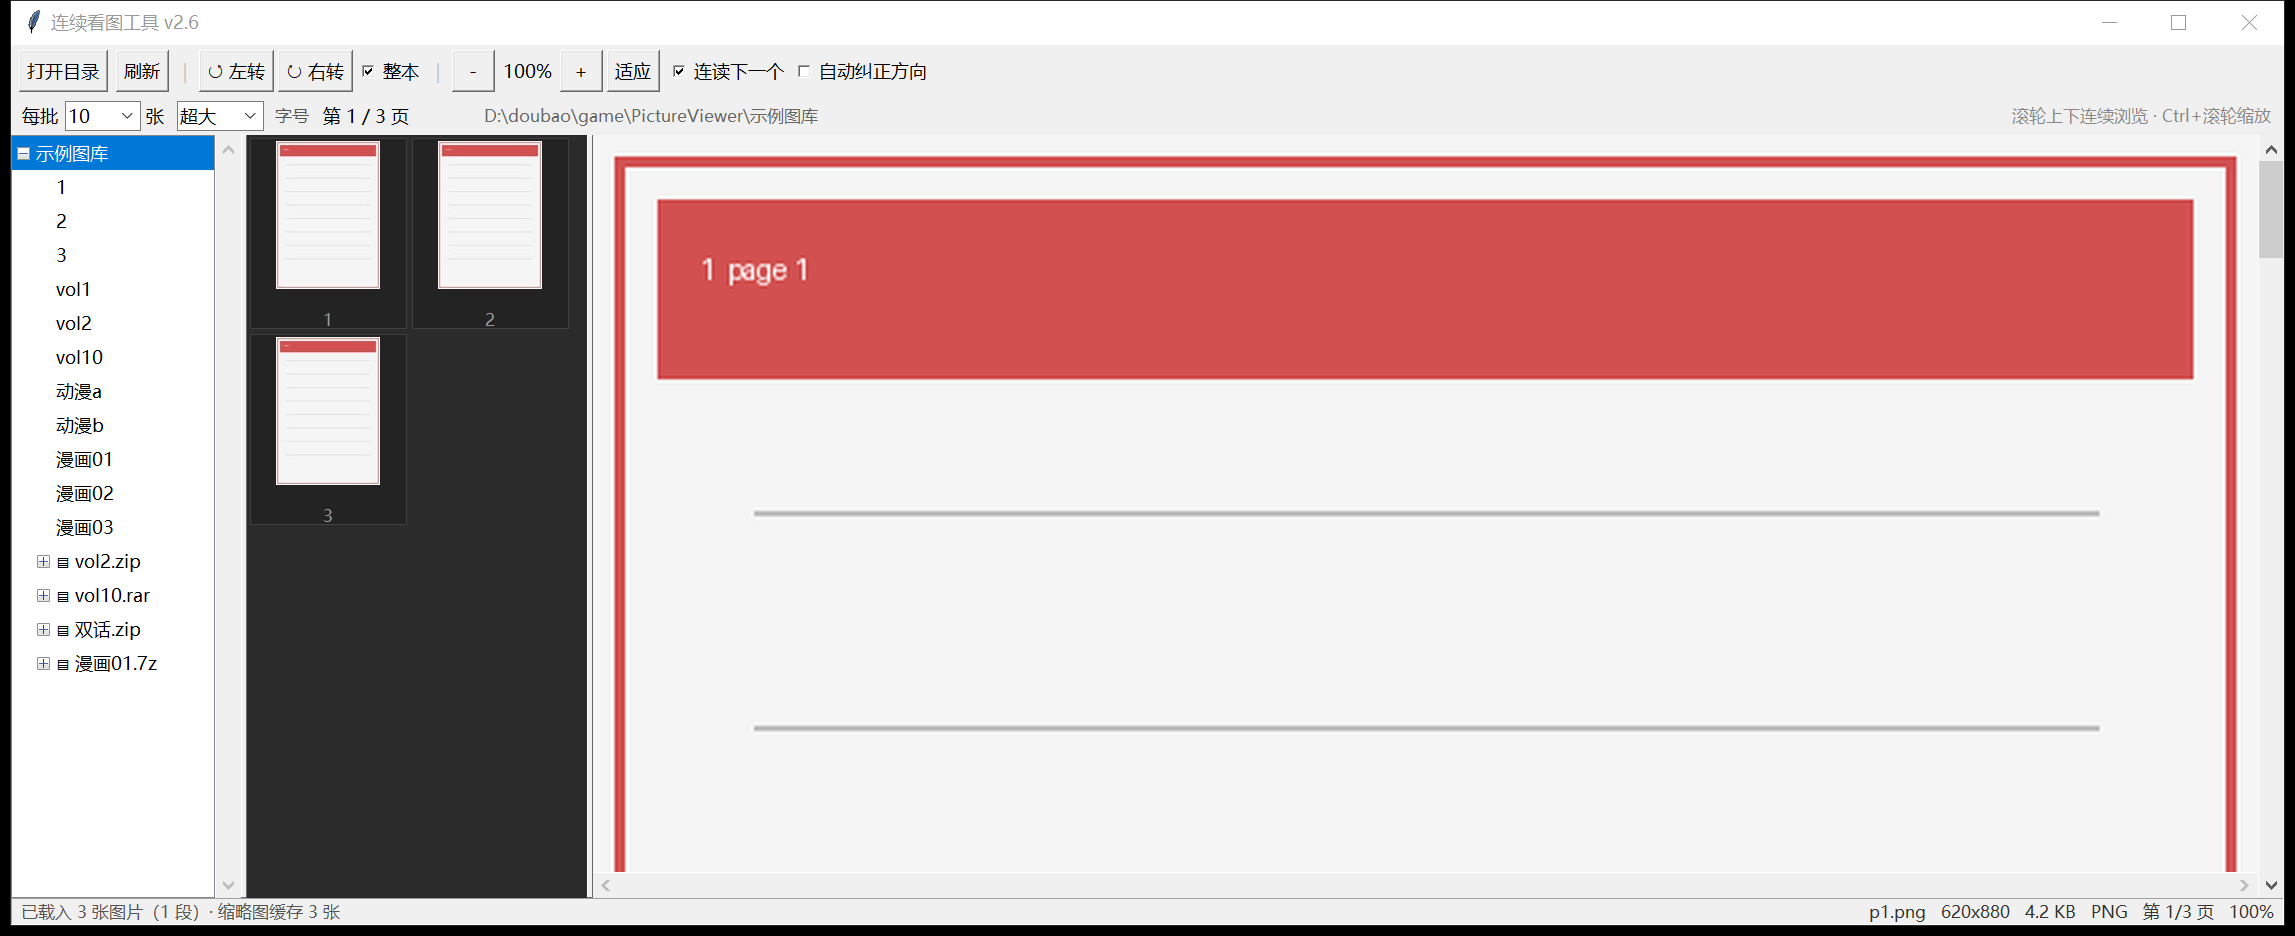
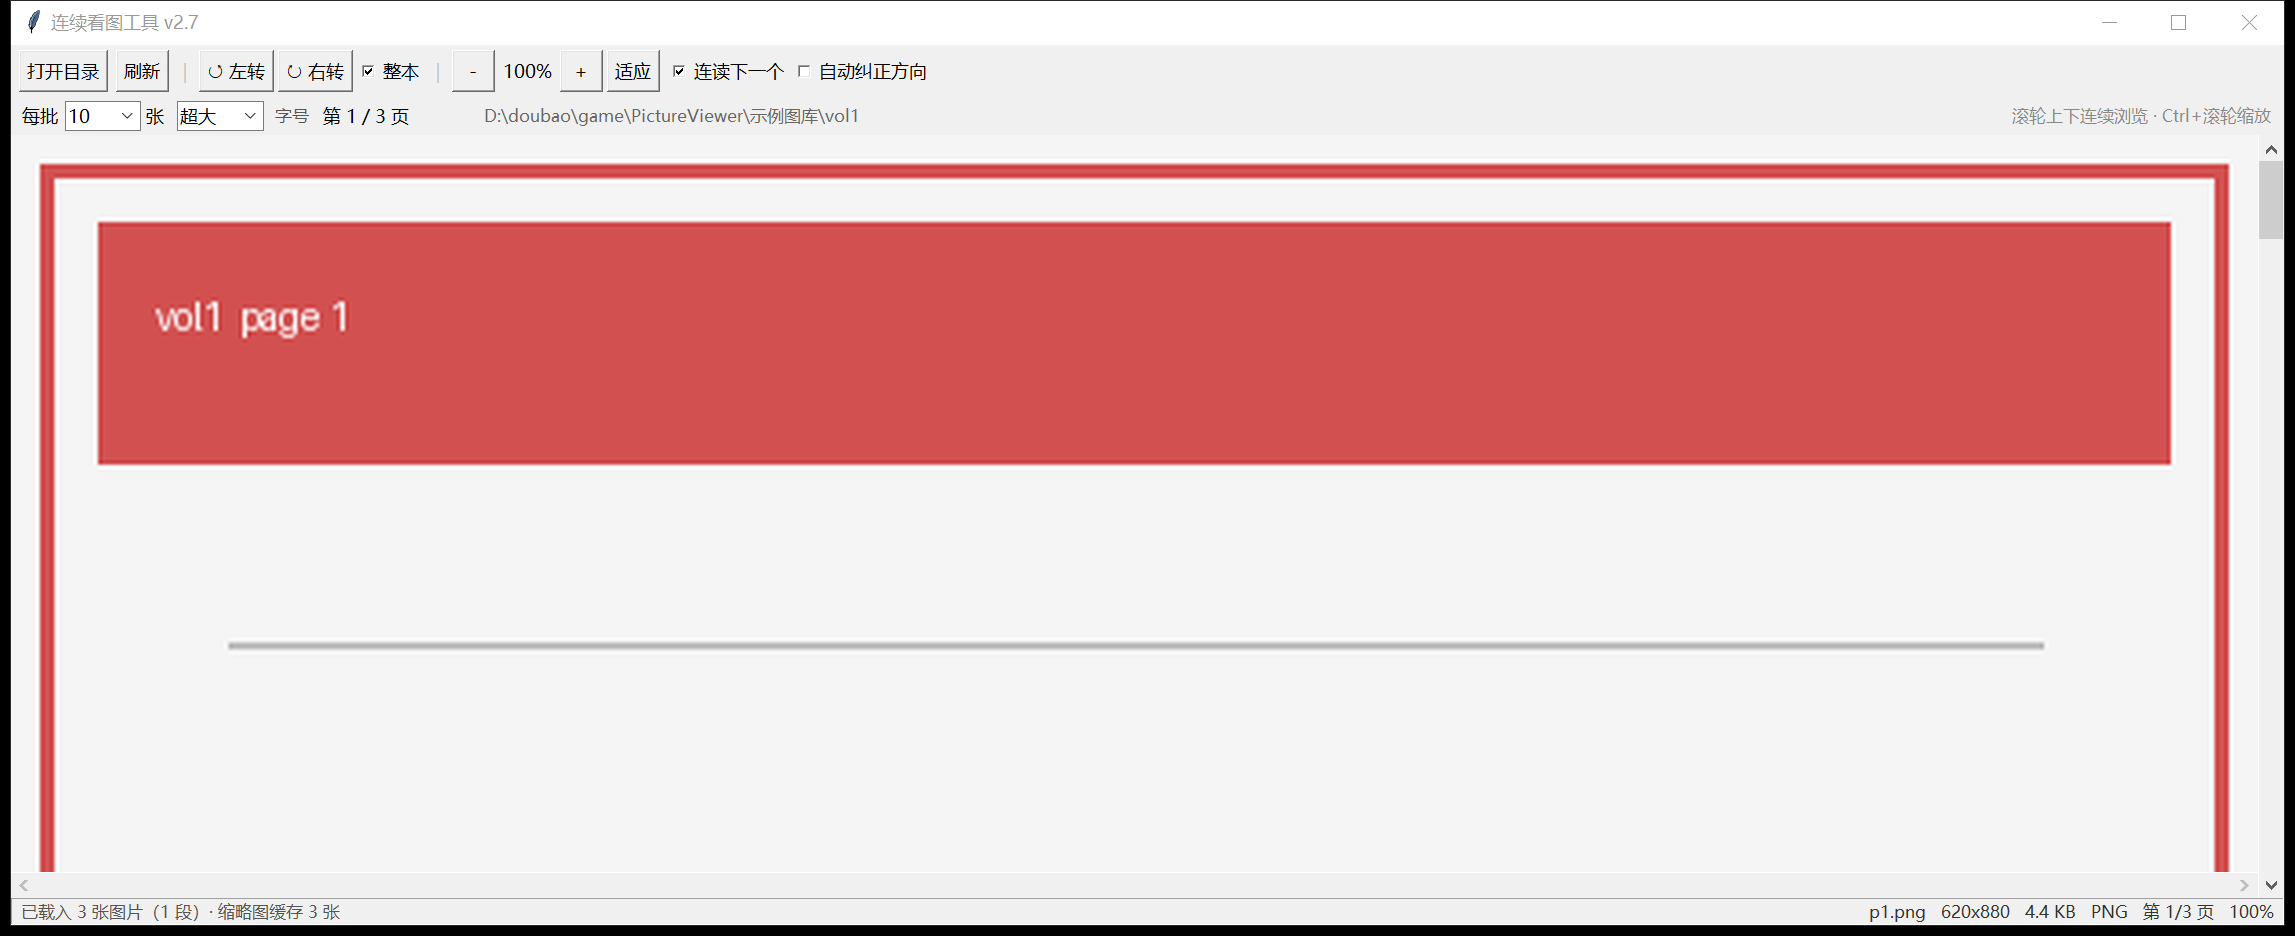
feat: v2.7 默认就是浏览图，双击切三栏（目录树+缩略图）；修首屏画布未就绪导致空白

Changed region(s): [[0.0, 0.1239, 1.0, 0.9605], [0.3403, 0.7746, 0.8972, 0.8056], [0.3403, 0.5267, 0.8972, 0.5577]]

diff --git a/自检.py b/自检.py
@@ -239,6 +239,7 @@ def check_gui():
     root.deiconify()
     app.open_root(SAMPLE)
     wait(root, 2.0)
+    assert app.view_mode and len(app.paned.panes()) == 1, "启动默认应是「浏览图」：只留图片区"
 
     # 选中 vol10 文件夹
     root_item = app.tree.get_children("")[0]

diff --git a/使用说明.md b/使用说明.md
@@ -35,7 +35,7 @@
 | 滚轮连续滑动、图片紧贴 | 把所有页按宽度缩放后一张接一张排成超长画布，页间 0 间隙；只解码视口附近页面（上下各多备一页）；超长竖图自动切 800px 一片 |
 | 分批读取、省内存 | 打开一本只先读 **前 5 张**（只列文件名 + 量这 5 张尺寸），滚到第 3 张附近后台补下一批；读到这本最后几张时，连**下一个文件夹/压缩包的前一批**也提前备好。工具栏 `每批` 下拉可切 5 / 10 / 20 张，改完立即生效并记进 `config.json`。状态栏会显示「后面还有 N 张没读」，一千页也不会一开就爆内存 |
 | 「最终 / 最后」排最后 | 名字是 `最终` / `最后` / `完结` / `大结局`，或**名字里含** `最终话` / `最后话` / `最终回` / `最终章` / `终章` / `完结篇`（如 `最终话-后篇`），或以收尾词结尾（如 `第10话 最终`）的文件夹、压缩包、图片，默认排在所有正常章节之后。只影响显示顺序，不改文件名 |
-| 双击进「只看图片」 | 在图片区双击 → 左树与缩略图收起，顶部工具栏、底部状态栏保留；普通窗口可拖动、可改大小；再双击或 `Esc` 恢复三栏 |
+| 默认浏览图 + 双击切三栏（v2.7） | 启动就是只看图片的浏览态（左树/缩略图收起，工具栏、状态栏保留）；双击图片区或 `Esc` 展开三栏（目录树+缩略图），再双击回到浏览图 |
 | 右键菜单 | 图片区、缩略图、目录树、状态栏上右键：打开文件夹、打开文件（图片/压缩包）、每批 5/10/20、放大、缩小、适应窗口大小、固定图片宽度（像素，0 恢复）、只看图片、刷新 |
 | 底部状态栏 | 右侧常显：`文件名 像素尺寸 文件体积 格式 第 n/N 页 当前缩放`（如 `p1.png 620x880 4.2 KB PNG 第 1/3 页 100%`） |
 | 字号四档 | 工具栏最右 `字号` 下拉：小 / 标准 / 大 / 超大，切换即时生效（工具栏、目录树、缩略图编号、状态栏、右键菜单一起变），首次运行按屏幕宽度自动挑一档，选择记进 `config.json` |
@@ -49,8 +49,8 @@
 
 ## 细节说明
 
-- 双击图片区进入「只看图片」（收起左树和缩略图，工具栏/状态栏保留，可拖动改大小），再双击或 `Esc` 退出
-- 右键可打开文件夹/文件、切每批 5/10/20、放大缩小、适应窗口、固定图片宽度、只看图片、刷新
+- 启动默认是「浏览图」：只有图片区、工具栏、状态栏；双击图片区（或 Esc、或右键菜单）切到三栏，再双击回到浏览图
+- 右键可打开文件夹/文件、切每批 5/10/20、放大缩小、适应窗口、固定图片宽度、切换浏览图/三栏、刷新
 - 「固定图片宽度」按输入的像素显示（适合固定阅读宽度），填 0 回到适应窗口；固定后可用底部横向滚动条左右拖
 
 - 支持图片格式：jpg / jpeg / png / bmp / gif / webp / tif / tiff

diff --git a/README.md b/README.md
@@ -50,8 +50,8 @@
 - 接上的每一段都记在自己的区间里，「整本旋转」只作用于当前这一段，不会把后面接上的一起转
 - 工具栏 `连读下一个` 可关掉，关掉后读到末尾就停住
 
-**7. 双击进「只看图片」**
-在图片区双击，左树和中缩略图收起，**顶部工具栏与底部状态栏保留**，窗口仍是普通窗口：能拖标题栏移动、能拉边框改大小、能最小化/最大化；再双击图片或按 `Esc` 回到三栏。
+**7. 默认就是「浏览图」，双击切三栏（v2.7）**
+启动就是纯净浏览态：只有**连续长图 + 顶部工具栏 + 底部状态栏**，左树和缩略图收起；窗口仍是普通窗口：能拖标题栏移动、能拉边框改大小、能最小化/最大化。在图片区双击（或按 `Esc`、或右键选「切到三栏浏览」）才展开**目录树与缩略图**的三栏界面，再双击回来。
 
 **8. 右键菜单 + 底部状态栏**
 
